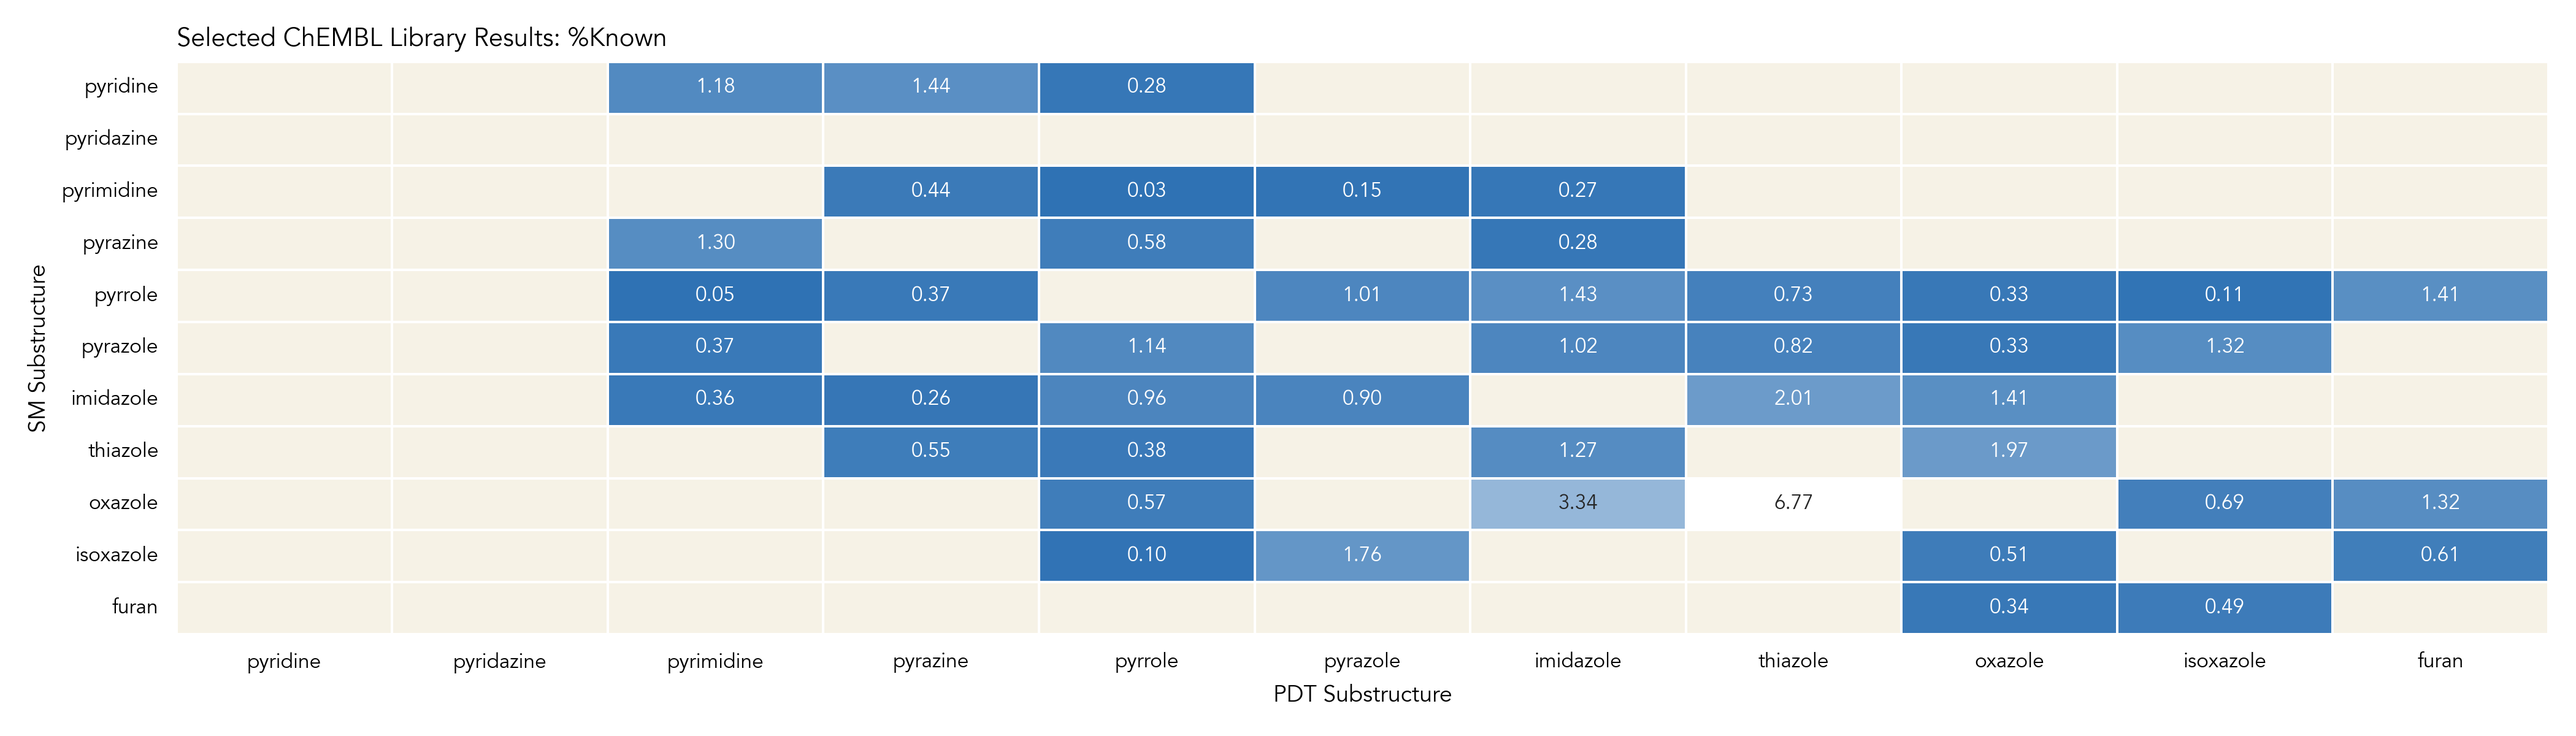
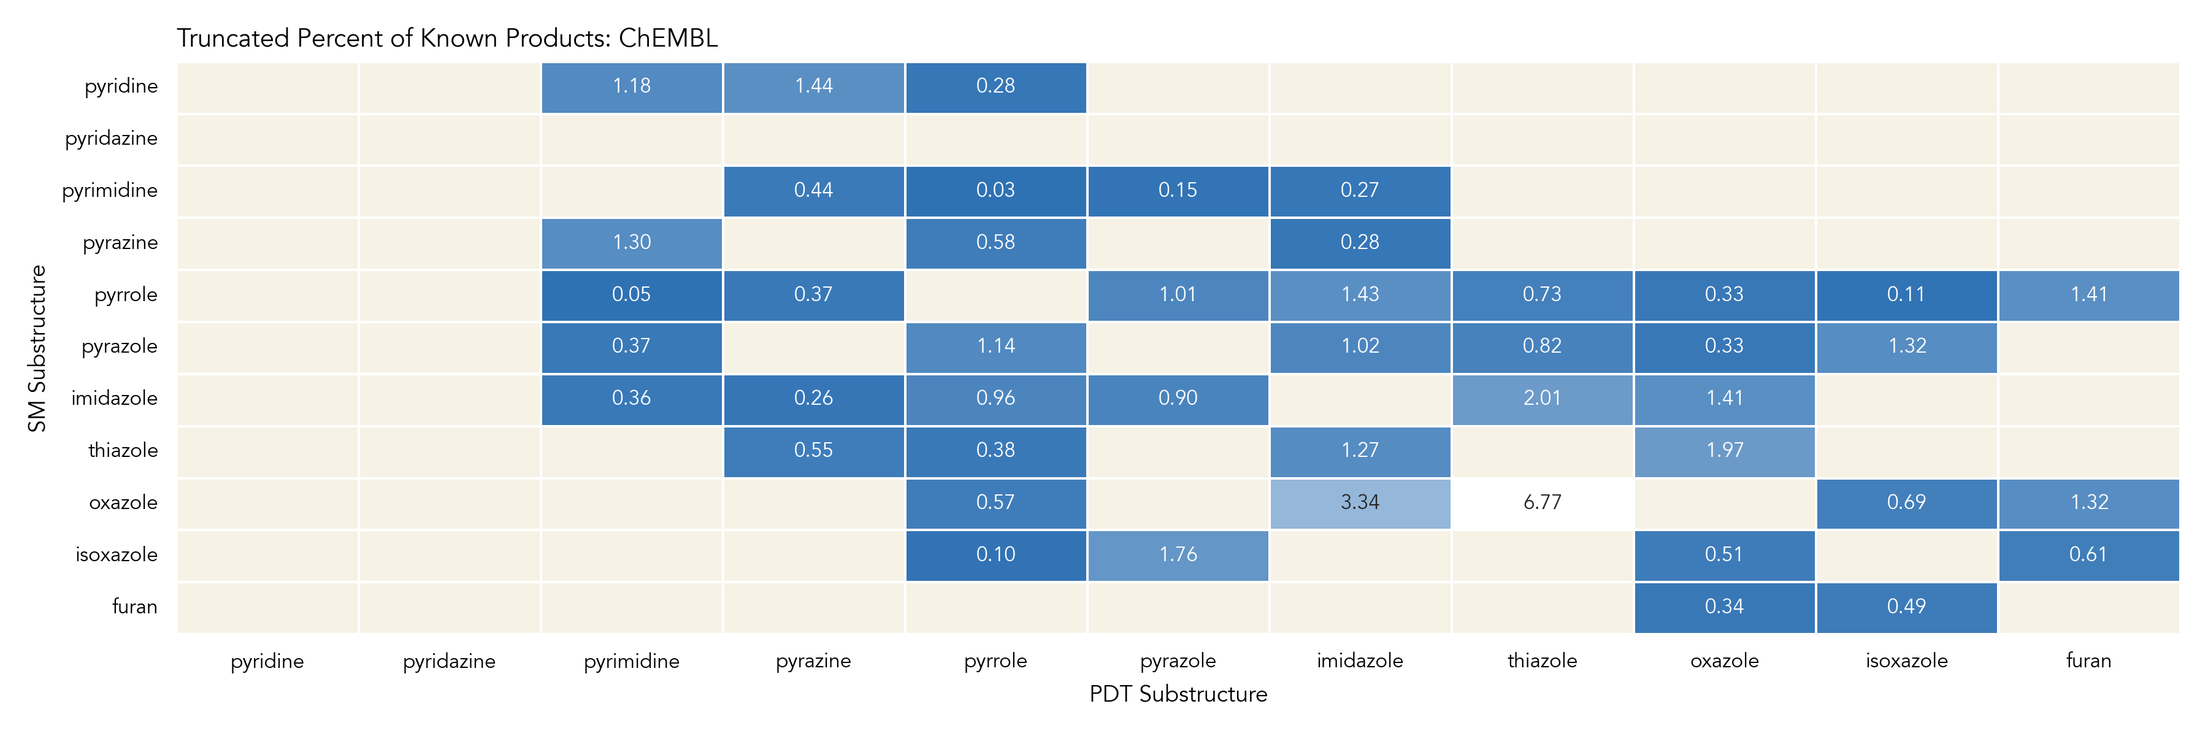
updated some plot dimmensions

diff --git a/figures/heterocycle_percentages.py b/figures/heterocycle_percentages.py
@@ -54,25 +54,25 @@ def plot_heterocycles(df, structures, output_file):
     """Plot heterocycles with their percentages and save to a file."""
     mols = create_molecule_dict(structures)
 
-    fig, ax = plt.subplots(figsize=(16, 8))
+    fig, ax = plt.subplots(figsize=(12, 2))
     ax.axis('off')
 
     fontfamily = 'Avenir'
     num_cols = len(df)
 
-    ax.text(-0.1, 0.7, 'Structure', ha='center', va='center', fontsize=14, fontweight='bold', fontfamily=fontfamily, rotation='horizontal', transform=ax.transAxes)
-    ax.text(-0.1, 0.6, 'Percentage', ha='center', va='center', fontsize=14, fontweight='bold', fontfamily=fontfamily, rotation='horizontal', transform=ax.transAxes)
-    ax.text(-0.1, 0.8, 'Heterocycle', ha='center', va='center', fontsize=14, fontweight='bold', fontfamily=fontfamily, rotation='horizontal', transform=ax.transAxes)
+    ax.text(-0.1, 0.9, 'Structure', ha='center', va='center', fontsize=10, fontweight='bold', fontfamily=fontfamily, rotation='horizontal', transform=ax.transAxes)
+    ax.text(-0.1, 0.45, 'Percentage', ha='center', va='center', fontsize=10, fontweight='bold', fontfamily=fontfamily, rotation='horizontal', transform=ax.transAxes)
+    ax.text(-0.1, 0.0, 'Heterocycle', ha='center', va='center', fontsize=10, fontweight='bold', fontfamily=fontfamily, rotation='horizontal', transform=ax.transAxes)
 
     for i, heterocycle in enumerate(df['Heterocycle']):
-        ax.text((i + 0.5) / num_cols, 0.8, heterocycle, ha='center', va='center', fontsize=12, fontweight='bold', fontfamily=fontfamily)
+        ax.text((i + 0.5) / num_cols, 0.9, heterocycle, ha='center', va='center', fontsize=9, fontweight='bold', fontfamily=fontfamily)
 
     for i, (heterocycle, percentage) in enumerate(zip(df['Heterocycle'], df['Percentage'])):
         if (mol := mols.get(heterocycle)):
             options = Draw.MolDrawOptions()
             options.bgColor = (0, 0, 0, 0)
 
-            mol_img = Draw.MolToImage(mol, size=(100, 100), kekulize=True, wedgeBonds=True, fitImage=True, options=options)
+            mol_img = Draw.MolToImage(mol, size=(75, 75), kekulize=True, wedgeBonds=True, fitImage=True, options=options)
             
             buffer = io.BytesIO()
             mol_img.save(buffer, format='PNG')
@@ -80,7 +80,7 @@ def plot_heterocycles(df, structures, output_file):
             img = Image.open(buffer)
             
             imgbox = OffsetImage(img, zoom=0.5, resample=True, alpha=1.0)
-            ab = AnnotationBbox(imgbox, ((i + 0.5) / num_cols, 0.7),
+            ab = AnnotationBbox(imgbox, ((i + 0.5) / num_cols, 0.45),
                                 xybox=(0, 0), 
                                 xycoords='axes fraction', 
                                 boxcoords="offset points",
@@ -91,7 +91,7 @@ def plot_heterocycles(df, structures, output_file):
         
         # Set percentage text color to blue
         blue_color = "#2F72B4"
-        ax.text((i + 0.5) / num_cols, 0.6, f'{percentage:.2f}%',
+        ax.text((i + 0.5) / num_cols, 0.00, f'{percentage:.2f}%',
                 ha='center', va='center', fontsize=12, color=blue_color, fontweight='bold', fontfamily=fontfamily, zorder=4)
 
     plt.tight_layout()

diff --git a/databases/results/selected_dfs_analysis/heatmap_from_csv.py b/databases/results/selected_dfs_analysis/heatmap_from_csv.py
@@ -25,7 +25,7 @@ plt.rcParams['font.family'] = 'Avenir'
 
 def GenerateHeatmap(dataframe, title, filename, directory):
     # Define figure size
-    plt.figure(figsize=(14, 4))
+    plt.figure(figsize=(12, 4))
 
     # Generate a custom color map
     colors = ["#2F72B4", "white"]
@@ -79,6 +79,6 @@ for database in databases:
     df = pd.read_csv(csv_file_name, index_col = 0)
 
     GenerateHeatmap(df,
-                    f'Selected {database} Library Results: %Known',
+                    f'Truncated Percent of Known Products: {database}',
                     f'selected_{database}_percent_known.png',
                     'selected_heatmaps')
